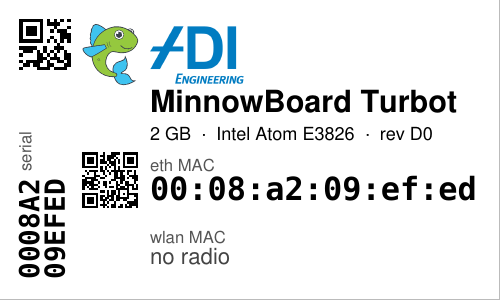
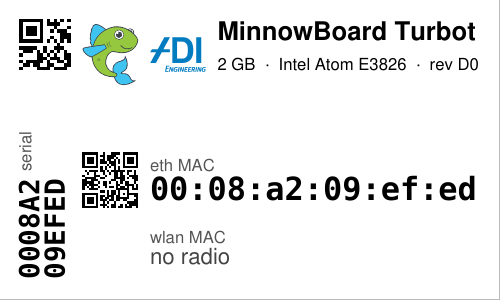
labels: an x86 board's maker mark in a box the fish's size
The maker's mark had been blown up across the header, with the title
pushed down into the HAT band. Tim wants it the fish's size: the mark now
gets the fish's box beside it, and the title and subtitle move over past
it, back in the header. The band is empty unless the maker has no mark on
file, when it names the maker as text.

Claude-Session: https://claude.ai/code/session_01PBYpeR32kHxmN65GqkGhJx

diff --git a/src/rpi_hwid/labels.py b/src/rpi_hwid/labels.py
@@ -700,16 +700,15 @@ def draw_board_columns(lab, b, x):
     mark_fitted(lab, b.mark, x, PAD, qr, logo_h)
     y = PAD + max(0, (logo_h - title_h) / 2)
 
-    # A PC has no HAT header, so it has no HAT band to fill. Its maker's
-    # mark goes beside the project's (ADI Engineering's or CircuitCo's
-    # beside the MinnowBoard fish) across the header, with no word of text,
-    # and the title and subtitle drop into the band the HAT line would use.
-    # The MAC bands stay where they are on every board label.
+    # A PC's maker is a mark beside the project's (ADI Engineering's or
+    # CircuitCo's beside the MinnowBoard fish), in a box the fish's size,
+    # with no word of text; the title and subtitle move over past it.
+    head_x = tx
     maker_path = artwork(b.maker_mark) if b.kind == "x86" and b.maker_mark else None
     if maker_path:
-        mark_in_box(lab, maker_path, tx, PAD + logo_h * 0.1, col_w, logo_h * 0.8,
-                    align="left")
-        y = PAD + logo_h + 0.1 * mm
+        mark_in_box(lab, maker_path, tx, PAD, qr, logo_h)
+        head_x = tx + qr + 1.5 * mm
+    head_w = LABEL_W - PAD - head_x
 
     # What the board is wearing that is not a HAT and has no MAC: a fan on
     # the header, a cell behind the RTC. Both are Pi 5 signals and both are
@@ -728,9 +727,9 @@ def draw_board_columns(lab, b, x):
     # the title gives up the room the icons take, rather than running under
     # them: lab.fit shrinks and then ellipsises, so a long name degrades
     # gracefully instead of colliding.
-    title_w = col_w - (icons_w + 1.5 * mm if icons else 0)
-    lab.fit(tx, y, b.title, SANS_BOLD, 11, title_w)
-    lab.fit(tx, y + 4.6 * mm, b.subtitle, SANS, 6.5, col_w)
+    title_w = head_w - (icons_w + 1.5 * mm if icons else 0)
+    lab.fit(head_x, y, b.title, SANS_BOLD, 11, title_w)
+    lab.fit(head_x, y + 4.6 * mm, b.subtitle, SANS, 6.5, head_w)
 
     # HAT band: the HAT line, then the uuid line centred in the rest of the
     # band (regular weight: bold mono at 6 pt fills in under toner). Every
@@ -745,8 +744,8 @@ def draw_board_columns(lab, b, x):
         # harts and the board's PCB and BOM revisions.
         return draw_riscv_band(lab, b, x, tx, y, qr, col_w, hat_rows, qr_gap)
     if b.kind == "x86":
-        # With its mark in the header the title is in this band (see
-        # above); a maker with no mark on file is named here instead.
+        # A PC has no HAT header, so the band is empty unless its maker has
+        # no mark on file, in which case the maker is named here instead.
         if not maker_path:
             name_y = y + (hat_rows - 0.8 * mm - 7 * 0.72) / 2
             lab.captioned(x, tx, name_y, "maker", b.maker or "maker not named",

diff --git a/docs/LABELS.md b/docs/LABELS.md
@@ -165,10 +165,10 @@ than a device tree — the fleet's two MinnowBoards. The board's project mark (t
 MinnowBoard fish) takes the raspberry's box; the title is the DMI board name and
 the subtitle the fitted RAM, the CPU and the platform revision the firmware
 reports (`rev D0` on a Turbot, `rev B3` on a MAX). The board's maker, from the
-DMI vendor string, is a mark beside the fish with no text: ADI Engineering's on
-the Turbot, CircuitCo's on the MAX. A PC has no HAT header, so the title and
-subtitle drop into the band a Pi uses for its HAT, leaving the header to the two
-marks; a maker with no mark on file is named in that band instead. The serial up the
+DMI vendor string, is a mark the fish's size beside it, with no text: ADI
+Engineering's on the Turbot, CircuitCo's on the MAX; the title and subtitle move
+over past it. A PC has no HAT header, so that band is empty, unless the maker has
+no mark on file, when it names the maker instead. The serial up the
 spine is the firmware's DMI serial, which on both MinnowBoards is the Ethernet
 MAC without its colons; the wlan row says `no radio`, since neither board has
 one.

diff --git a/src/rpi_hwid/artwork/README.md b/src/rpi_hwid/artwork/README.md
@@ -51,6 +51,6 @@ SquirrelsResearch GitHub avatar is a generated identicon, and
 squirrelsresearch.com no longer serves the file).
 
 An x86 board's label draws its maker's mark (ADI Engineering's, CircuitCo's)
-in the header beside the project's mark (the MinnowBoard fish), with no name in
-text; the title moves down into the HAT band, which a PC has no use for.
+in the header beside the project's mark (the MinnowBoard fish), in a box the
+fish's size, with no name in text.
 Which mark goes with which DMI vendor is `rpi_hwid.x86.MAKERS`.
